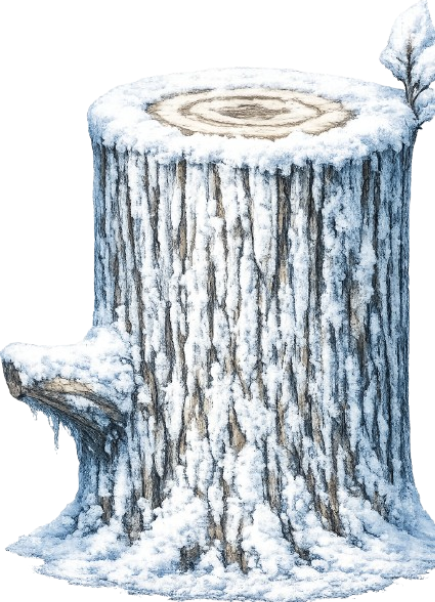
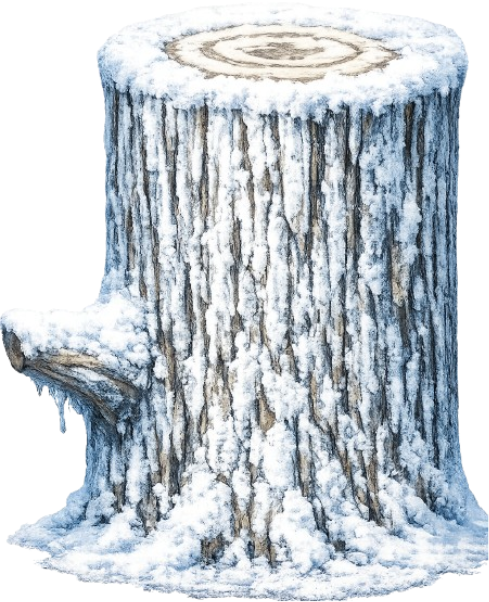
Añadido el nivel 1 (Nivel de nieve), falta que no se dibujen troncos de mas

diff --git a/core/src/main/java/com/pife/juego/Pantallas/PantallaNivel1.java b/core/src/main/java/com/pife/juego/Pantallas/PantallaNivel1.java
@@ -8,6 +8,7 @@ import com.badlogic.gdx.utils.ScreenUtils;
 import com.badlogic.gdx.utils.viewport.FitViewport;
 import com.pife.juego.Idiomas.Idiomas;
 import com.pife.juego.Main;
+import com.pife.juego.Menus.MenuSeleccionarNivel;
 import com.pife.juego.Obstaculos.TroncosEnrredaderas;
 import com.pife.juego.Personajes.Quokky;
 
@@ -17,19 +18,19 @@ public class PantallaNivel1 implements Screen {
     private SpriteBatch batch;
     private FitViewport viewport;
 
-    // Fondo
-    private com.badlogic.gdx.graphics.Texture fondoTex1, fondoTex2;
-    private float fondo1X, fondo2X;
+    private com.badlogic.gdx.graphics.Texture fondoTex1;
+    private com.badlogic.gdx.graphics.Texture fondoTex2;
+    private float fondo1X;
+    private float fondo2X;
     private float velocidadFondo = 1.5f;
 
-    // Entidades
     private Quokky quokky;
     private TroncosEnrredaderas troncos;
 
-    // Font para puntuación
     private BitmapFont font;
 
-    //Musica de fondo
+    //Para evitar que se dibujen obstáculos extra al completar el nivel
+    private boolean nivelCompletado = false;
 
     public PantallaNivel1(Main game) {
         this.game = game;
@@ -40,51 +41,61 @@ public class PantallaNivel1 implements Screen {
     public void show() {
         batch = new SpriteBatch();
 
-        //Idiomas
         String idioma = game.getPrefs().getString("idioma", "ES");
         Idiomas.cargar(idioma);
 
-
-        // Fondo
         fondoTex1 = new com.badlogic.gdx.graphics.Texture("Pantallas/Fondo_Nieve.png");
         fondoTex2 = new com.badlogic.gdx.graphics.Texture("Pantallas/Fondo_Nieve.png");
-        fondo1X = 0;
+
+        fondo1X = 0f;
         fondo2X = viewport.getWorldWidth();
 
-        //Musica de Fondo
         game.reproducirMusica("MusicaDeFondo/sonido-nieve.mp3");
 
-        // Entidades
         quokky = new Quokky(viewport, Quokky.Skin.NIEVE);
-
         troncos = new TroncosEnrredaderas(viewport, TroncosEnrredaderas.Skin.NIEVE);
 
-        // Font para puntos usando la fuente de Main
         font = game.fuente;
-
-        // Escalado de fuente según viewport y densidad
         font.setColor(Color.BLACK);
+
+        nivelCompletado = false;
     }
 
     private void update(float delta) {
-        // Fondo
-        fondo1X -= velocidadFondo * delta;
-        fondo2X -= velocidadFondo * delta;
 
-        if (fondo1X + viewport.getWorldWidth() <= 0) {
-            fondo1X = fondo2X + viewport.getWorldWidth();
-        }
-        if (fondo2X + viewport.getWorldWidth() <= 0) {
-            fondo2X = fondo1X + viewport.getWorldWidth();
+        float nuevoFondo1X = fondo1X - velocidadFondo * delta;
+        float nuevoFondo2X = fondo2X - velocidadFondo * delta;
+
+        fondo1X = nuevoFondo1X;
+        fondo2X = nuevoFondo2X;
+
+        float worldWidth = viewport.getWorldWidth();
+
+        if (fondo1X + worldWidth <= 0f) {
+            fondo1X = fondo2X + worldWidth;
         }
 
-        // Entidades
+        if (fondo2X + worldWidth <= 0f) {
+            fondo2X = fondo1X + worldWidth;
+        }
+
         quokky.update(delta);
-        troncos.update(delta, velocidadFondo, quokky.getX());
 
-        // Colisión
-        if (troncos.colisiona(quokky.getHitbox())) {
-            game.setScreen(new PantallaGameOver(game));
+        //Solo actualizamos/generamos obstáculos si NO se ha completado el nivel
+        if (nivelCompletado == false) {
+            troncos.update(delta, velocidadFondo, quokky.getX());
+
+            int superados = troncos.getPuntos();
+            if (superados >= 10) {
+                nivelCompletado = true;
+                game.setScreen(new MenuSeleccionarNivel(game));
+                return;
+            }
+
+            // Colisión (solo mientras se juega)
+            if (troncos.colisiona(quokky.getHitbox())) {
+                game.setScreen(new PantallaGameOver(game, new PantallaNivel1(game)));
+            }
         }
     }
 
@@ -92,18 +103,33 @@ public class PantallaNivel1 implements Screen {
     public void render(float delta) {
         update(delta);
 
-        ScreenUtils.clear(0, 0, 0, 1);
+        ScreenUtils.clear(0f, 0f, 0f, 1f);
 
         viewport.apply();
         batch.setProjectionMatrix(viewport.getCamera().combined);
 
         batch.begin();
+
         drawFondo();
-        troncos.draw(batch);
+
+        //No dibuja obstáculos extra si ya se completó el nivel
+        if (nivelCompletado == false) {
+            troncos.draw(batch);
+        }
+
         quokky.draw(batch);
 
-        // Dibujar puntuación arriba a la izquierda
-        font.draw(batch, Idiomas.t("points: ") + troncos.getPuntos(), 0.1f, viewport.getWorldHeight() - 0.1f);
+        float textoX = 0.1f;
+        float textoY = viewport.getWorldHeight() - 0.1f;
+
+        int superados = troncos.getPuntos();
+        int cuentaAtras = 10 - superados;
+        if (cuentaAtras < 0) {
+            cuentaAtras = 0;
+        }
+
+        String texto = Idiomas.t("obstacles") + ": " + cuentaAtras;
+        font.draw(batch, texto, textoX, textoY);
 
         batch.end();
     }
@@ -123,14 +149,11 @@ public class PantallaNivel1 implements Screen {
     @Override
     public void resize(int width, int height) {
         viewport.update(width, height, true);
-
     }
 
     @Override public void pause() {}
     @Override public void resume() {}
-    //Al salir de la ventana paramos la musica
-    @Override public void hide() {
-    }
+    @Override public void hide() {}
 
     @Override
     public void dispose() {
@@ -141,5 +164,3 @@ public class PantallaNivel1 implements Screen {
         troncos.dispose();
     }
 }
-
-

diff --git a/core/src/main/java/com/pife/juego/Pantallas/PantallaGameOver.java b/core/src/main/java/com/pife/juego/Pantallas/PantallaGameOver.java
@@ -1,6 +1,5 @@
 package com.pife.juego.Pantallas;
 
-import com.badlogic.gdx.Application;
 import com.badlogic.gdx.Screen;
 import com.badlogic.gdx.Gdx;
 import com.badlogic.gdx.graphics.Color;
@@ -11,45 +10,43 @@ import com.badlogic.gdx.graphics.g2d.SpriteBatch;
 import com.badlogic.gdx.math.Vector3;
 import com.badlogic.gdx.utils.ScreenUtils;
 import com.badlogic.gdx.utils.viewport.FitViewport;
-import com.pife.juego.Constantes;
 import com.pife.juego.Main;
 import com.pife.juego.Menus.MenuPrincipal;
 
 public class PantallaGameOver implements Screen {
 
     private Main game;
+    private Screen pantallaReintento; //pantalla a la que volver al reintentar
+
     private SpriteBatch batch;
     private Texture fondoGameOver;
     private Texture txtBoton;
     private FitViewport viewport;
     private Sprite btnReintentar, btnMenu;
     private BitmapFont font;
-    private Float factorEscaladoFuente;
-    public PantallaGameOver(Main game) {
+
+    public PantallaGameOver(Main game, Screen pantallaReintento) {
         this.game = game;
-        font = game.fuente;
+        this.pantallaReintento = pantallaReintento;
+        this.font = game.fuente;
     }
 
     @Override
     public void show() {
 
-        //Musica de Fondo
         game.reproducirMusica("MusicaDeFondo/sonido-menu.mp3");
 
         batch = new SpriteBatch();
         fondoGameOver = new Texture("Pantallas/PantallaGameOver.png");
-
         txtBoton = new Texture("Botones/Boton.png");
 
-        // Mismo viewport que Main (5x8 unidades)
         viewport = new FitViewport(5, 8);
 
         btnMenu = new Sprite(txtBoton);
         btnReintentar = new Sprite(txtBoton);
 
-        // Tamaño de botones
         float w = 3f;
-        float h = 1f; // botón más pequeño para que quepan juntos
+        float h = 1f;
 
         float x = 1f;
         float yBase = 8f - 3.2f;
@@ -57,58 +54,51 @@ public class PantallaGameOver implements Screen {
         btnReintentar.setBounds(x, yBase, w, h);
         btnMenu.setBounds(x, yBase - 0.85f, w, h);
 
-
-        font.setColor(new Color(0.1f,0.4f,0.1f,1));
+        font.setColor(new Color(0.1f, 0.4f, 0.1f, 1f));
     }
 
     @Override
     public void render(float delta) {
-        ScreenUtils.clear(0, 0, 0, 1);
+        ScreenUtils.clear(0f, 0f, 0f, 1f);
 
         viewport.apply();
         batch.setProjectionMatrix(viewport.getCamera().combined);
 
         batch.begin();
-        // Dibuja la pantalla completa igual que la portada
-        batch.draw(fondoGameOver, 0, 0, viewport.getWorldWidth(), viewport.getWorldHeight());
+
+        batch.draw(fondoGameOver, 0f, 0f, viewport.getWorldWidth(), viewport.getWorldHeight());
         btnReintentar.draw(batch);
         btnMenu.draw(batch);
 
-        font.draw(batch, "REINTENTAR", btnReintentar.getX() + 0.65f, btnReintentar.getY() + 0.6f );
+        font.draw(batch, "REINTENTAR", btnReintentar.getX() + 0.65f, btnReintentar.getY() + 0.6f);
         font.draw(batch, "MENU", btnMenu.getX() + 1.2f, btnMenu.getY() + 0.6f);
 
         batch.end();
 
-        // Reiniciar juego si se toca la pantalla
-        // Detectar clicks
         if (Gdx.input.justTouched()) {
-            Vector3 touch = new Vector3(Gdx.input.getX(), Gdx.input.getY(), 0);
+            Vector3 touch = new Vector3(Gdx.input.getX(), Gdx.input.getY(), 0f);
             viewport.unproject(touch);
 
             if (btnReintentar.getBoundingRectangle().contains(touch.x, touch.y)) {
                 Gdx.app.log("BOTON", "REINTENTAR");
-                game.setScreen(new PantallaNivelInfinito(game)); // Cambia de pantalla
+                //Volver al modo que estabas jugando
+                game.setScreen(pantallaReintento);
             } else if (btnMenu.getBoundingRectangle().contains(touch.x, touch.y)) {
                 Gdx.app.log("BOTON", "MENÚ");
                 game.setScreen(new MenuPrincipal(game));
             }
         }
-
-
     }
 
-    @Override public void resize(int width, int height) {
-        viewport.update(width, height, true);
-    }
+    @Override public void resize(int width, int height) { viewport.update(width, height, true); }
     @Override public void pause() {}
     @Override public void resume() {}
     @Override public void hide() {}
+
     @Override
     public void dispose() {
         batch.dispose();
         fondoGameOver.dispose();
-        btnMenu.getTexture().dispose();
-        btnReintentar.getTexture().dispose();
-        font.dispose();
+        txtBoton.dispose();
     }
 }

diff --git a/core/src/main/java/com/pife/juego/Pantallas/PantallaNivelInfinito.java b/core/src/main/java/com/pife/juego/Pantallas/PantallaNivelInfinito.java
@@ -84,7 +84,8 @@ public class PantallaNivelInfinito implements Screen {
 
         // Colisión
         if (troncos.colisiona(quokky.getHitbox())) {
-            game.setScreen(new PantallaGameOver(game));
+            game.setScreen(new PantallaGameOver(game, new PantallaNivelInfinito(game)));
+
         }
     }
 
